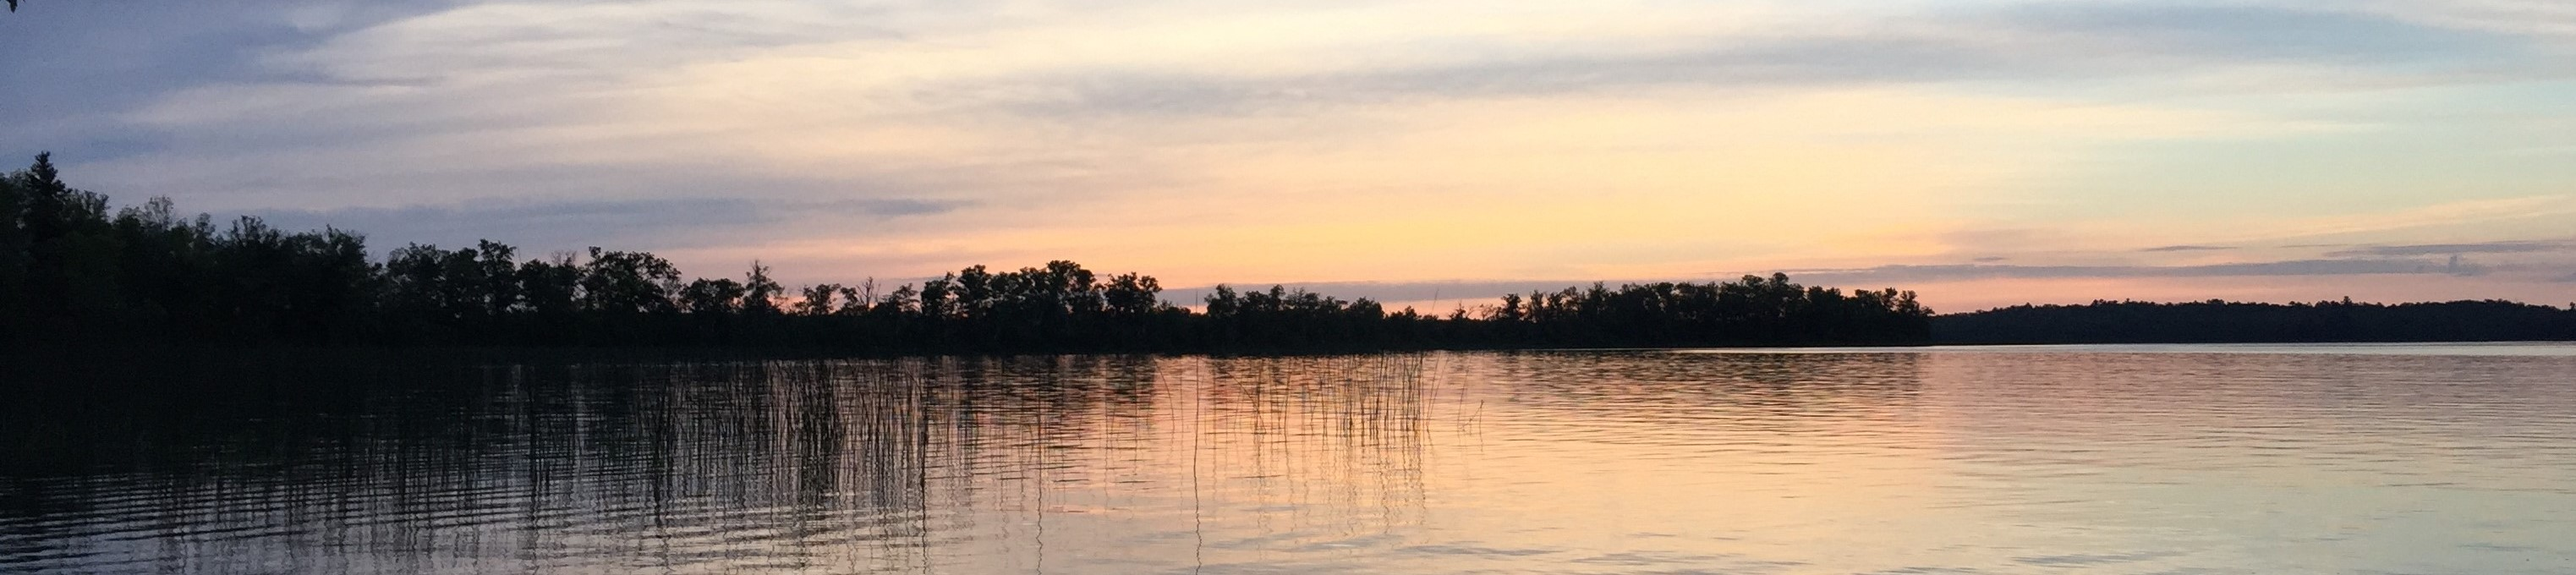
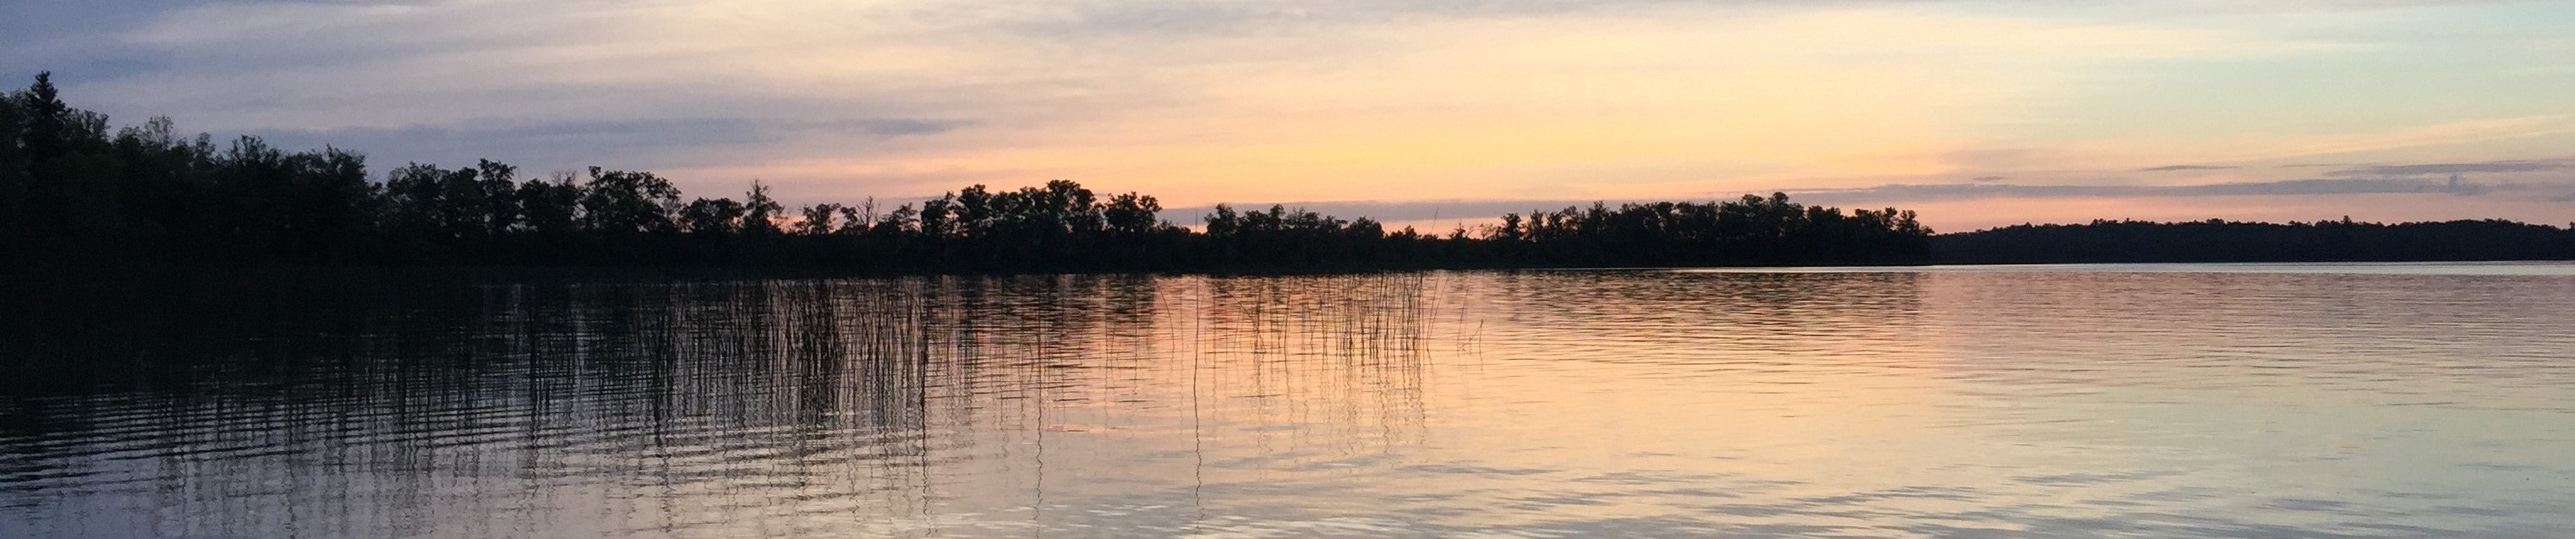
Add files via upload

diff --git a/index.html b/index.html
@@ -29,7 +29,7 @@
 
 <!-- Header -->
 <header class="w3-display-container w3-content w3-wide" style="max-width:1500px;" id="home">
-  <img class="w3-image" src="IMG_8169.JPG" alt="Header" width="1500" height="800">
+  <img class="w3-image" src="IMG_8169a.JPG" alt="Header" width="1500" height="800">
   <div class="w3-display-middle w3-margin-top w3-center">
     <h1 class="w3-xxlarge w3-text-white"><span class="w3-padding w3-black w3-opacity-min"><b>SR</b></span> <span class="w3-hide-small w3-text-light-grey">Sara K. Riedesel</span></h1>
   </div>
@@ -48,17 +48,27 @@
       <div class="w3-display-container">
 
         <img src="prof.JPG" alt="House" style="width:80%">
+          <br><br>
+          <img src="dance.jpg" alt="House" style="width:80%">
       </div>
     </div>
     <div class="w3-col l3 m6 w3-margin-bottom">
       <div class="w3-display-container" style="width:300%">
-          <br><br>
-        <p>Sara Riedesel is a junior Industrial & Systems Engineer at Binghamton University in New York.  She has passion for sustainability and is minoring in Sustainability Engineering.  She will graduate in May 2018 with a Bachelor's of Science.
-        <br>
-            
+          <br>
+        <p>Currently I am a junior majoring in Industrial & Systems Engineer at Binghamton University in New York.  I also have been taking classes to fufill a minor in Sustainability Engineering.  In May 2018, I will graduate with a Bachelor's of Science.  I was born in Billings, Montana and raised in Burnsville, MN. 
+         
             
         </p>
       </div>
+        
+     <div class="w3-display-container" style="width:300%">
+    <br>
+        <p>Outside of school, my hobbies include hiking (especially through the Finger Lakes State Parks), spending time with my family and dog, and swing dancing. Since 2010, I have been east coast swing dancing non-competitively. Junior and Senior year of highschool I was captian of my swing team. The following video shows one of my favorite dances I performed called "Get It".  </p>
+         <iframe width="100%" height="350" src="https://www.youtube.com/embed/6HhsN37Izrk" frameborder="0" allowfullscreen></iframe>
+         
+      </div>    
+        
+        
     </div>  
   </div>
     </div>   
@@ -71,19 +81,19 @@
   <div class="w3-row-padding">
     <div class="w3-col l3 m6 w3-margin-bottom">
       <img src="binghamton.jpg" alt="Binghamton" style="width:100%">
-      <p>Sara has been at Binghamton University since a freshman</p>
+      <p>In August 2014, I started attending Binghamton University in updstate New York.  This decision came from the desire to go out east and attend a sustainable school. In May 2018, I will graduate with a Bachehlor's of Science in Industrial & Systems Engineering. </p>
     </div>
     <div class="w3-col l3 m6 w3-margin-bottom">
-      <img src="iisecrop.png" alt="IISE" style="width:60%">
-      <p>Sara is a member of the Institute of Industrial & Systems Engineers</p>
+      <img src="iisecrop.png" alt="IISE" style="width:105%"><br><br>
+      <p>Recently I joined the Institute of Industrial & Systems Engineers. This Institute provides connections and project opportuinties in the field along with occasial plant tours. </p>
     </div>
     <div class="w3-col l3 m6 w3-margin-bottom">
-      <img src="swe.png" alt="SWE" style="width:70%">
-      <p>Sara has been a member of the Society of Women Engineers since her freshman year of college.  Currently she is heading a project for the group.  The team is building a sculpture made out of old engineering parts the University no longer uses.</p>
+      <img src="swe.png" alt="SWE" style="width:100%">
+      <p>I have been a member of the Society of Women Engineers since my freshman year of college.  Currently I am heading a project for the society. My team is building a sculpture made out of old engineering parts the University no longer uses. This project will be displayed in the freshman engineering design division.</p>
     </div>
     <div class="w3-col l3 m6 w3-margin-bottom">
-      <img src="lean.jpg" alt="Lean" style="width:50%;">
-      <p>January 2017, Sara got certified in Lean Six Sigma.  </p>
+      <img src="lean.jpg" alt="Lean" style="width:50%">
+      <p>January 2017, I became certified in Lean Six Sigma. The skilled learned included: Continuous Process Improvement, 5S, Value Stream Mapping, Failure Mode and Effect Analysis, Quality Function Deployment, DMAIC, Control Charts, Pareto Charts, Time and Motion Studies, Team Dynamics, and Leadership.</p>
     </div>
     
   </div>    
@@ -96,52 +106,52 @@
   <div class="w3-row-padding">
     <div class="w3-col l3 m6 w3-margin-bottom">
       <div class="w3-display-container">
-        <div class="w3-display-topleft w3-black w3-padding-50">Simio</div>
-        <img src="simio.png" alt="House" style="width:100%">
+        <div class="w3-display-topleft w3-padding w3-black w3-opacity-min">Simio</div><br><br>
+        <img src="simio.png" alt="simio" style="width:50%">
       </div>
     </div>
     <div class="w3-col l3 m6 w3-margin-bottom">
       <div class="w3-display-container">
-        <div class="w3-display-topleft w3-black w3-padding-30">AutoCAD</div>
-        <img src="autocad.png" alt="House" style="width:100%">
+        <div class="w3-display-topleft w3-padding w3-black w3-opacity-min">AutoCAD</div><br><br>
+        <img src="autocad.png" alt="autocad" style="width:30%">
       </div>
     </div>
     <div class="w3-col l3 m6 w3-margin-bottom">
       <div class="w3-display-container">
-        <div class="w3-display-topleft w3-black w3-padding-30">MATLAB</div><br><br>
-        <img src="matlab.png" alt="House" style="width:100%">
+       <div class="w3-display-topleft w3-padding w3-black w3-opacity-min">MATLAB</div><br><br>
+        <img src="matlab.png" alt="matlab" style="width:70%">
       </div>
     </div>
     <div class="w3-col l3 m6 w3-margin-bottom">
       <div class="w3-display-container">
-        <div class="w3-display-topleft w3-black w3-padding-30">Microsoft Office</div><br><br>
-        <img src="microsoftoffice.png" alt="House" style="width:100%">
+        <div class="w3-display-topleft w3-padding w3-black w3-opacity-min">Microsoft Office</div><br><br>
+        <img src="microsoftoffice.png" alt="microsoftoffice" style="width:50%">
       </div>
     </div>
   </div>
     <div class="w3-row-padding">
         <div class="w3-col l3 m6 w3-margin-bottom">
           <div class="w3-display-container">
-            <div class="w3-display-topleft w3-black w3-padding">Minitab</div>
-            <img src="minitab.png" alt="House" style="width:99%">
+            <div class="w3-display-topleft w3-padding w3-black w3-opacity-min">Minitab</div><br><br>
+            <img src="minitab.png" alt="minitab" style="width:50%">
           </div>
         </div>
         <div class="w3-col l3 m6 w3-margin-bottom">
           <div class="w3-display-container">
-            <div class="w3-display-topleft w3-black w3-padding">Labview</div>
-            <img src="labview.png" alt="House" style="width:99%">
+            <div class="w3-display-topleft w3-padding w3-black w3-opacity-min">Labview</div> <br><br>
+            <img src="labview.png" alt="House" style="width:50%">
           </div>
         </div>
         <div class="w3-col l3 m6 w3-margin-bottom">
           <div class="w3-display-container">
-            <div class="w3-display-topleft w3-black w3-padding">Arena</div><br><br>
-            <img src="arena.png" alt="House" style="width:99%">
+            <div class="w3-display-topleft w3-padding w3-black w3-opacity-min">Arena</div><br><br>
+            <img src="arena.png" alt="arena" style="width:80%">
           </div>
         </div>
         <div class="w3-col l3 m6 w3-margin-bottom">
           <div class="w3-display-container">
-            <div class="w3-display-topleft w3-black w3-padding">HTML, JavaScript, Python</div>
-            <img src="htmljavapython.png" alt="House" style="width:99%">
+            <div class="w3-display-topleft w3-padding w3-black w3-opacity-min">HTML, JavaScript, Python</div><br><br>
+            <img src="htmljavapython.png" alt="htmljavapython" style="width:50%">
           </div>
         </div>
       </div>
@@ -161,26 +171,26 @@
   <div class="w3-row-padding">
     <div class="w3-col l3 m6 w3-margin-bottom">
       <div class="w3-display-container">
-        <div class="w3-display-topleft w3-black w3-padding">Capstone</div>
-        <img src="hololens.jpg" alt="House" style="width:100%">
+        <div class="w3-display-topleft w3-black w3-padding">Capstone</div><br><br>
+        <img src="capstone.PNG" alt="capstone" style="width:100%">
       </div>
     </div>
     <div class="w3-col l3 m6 w3-margin-bottom">
       <div class="w3-display-container">
         <div class="w3-display-topleft w3-black w3-padding">Innovative Power Systems</div>
-        <img src="solar.png" alt="House" style="width:100%">
+        <img src="solar.png" alt="ips" style="width:100%">
       </div>
     </div>
     <div class="w3-col l3 m6 w3-margin-bottom">
       <div class="w3-display-container">
         <div class="w3-display-topleft w3-black w3-padding">Independent Study</div>
-        <img src="binghamton.jpg" alt="House" style="width:100%">
+        <img src="binghamton.jpg" alt="independentstudy" style="width:100%">
       </div>
     </div>
     <div class="w3-col l3 m6 w3-margin-bottom">
       <div class="w3-display-container">
         <div class="w3-display-topleft w3-black w3-padding">NASEC</div>
-        <img src="nasec.JPG" alt="House" style="width:100%">
+        <img src="nasec.JPG" alt="nasec" style="width:100%">
       </div>
     </div>
   </div>

diff --git a/projects.html b/projects.html
@@ -25,7 +25,7 @@
 
 <!-- Header -->
 <header class="w3-display-container w3-content w3-wide" style="max-width:1500px;" id="home">
-  <img class="w3-image" src="smallheader.jpg" alt="Header" width="1500" height="800">
+  <img class="w3-image" src="smallheadera.jpg" alt="Header" width="1500" height="800">
   <div class="w3-display-middle w3-margin-top w3-center">
     <h1 class="w3-xxlarge w3-text-white"><span class="w3-padding w3-black w3-opacity-min"><b>SR</b></span> <span class="w3-hide-small w3-text-light-grey">Projects</span></h1>
   </div>
@@ -44,9 +44,9 @@
   <div class="w3-row-padding">
     <div class="w3-col l3 m6 w3-margin-bottom">
       <div class="w3-display-container">
-        <div class="w3-display-topleft w3-black w3-padding">Capstone</div>
-        <img src="hololens.jpg" alt="House" style="width:100%">
-        <p>Sara began her senior design capstone project Spring 2017.  Her team of 6 individuals is currently developing a smart watch app for nursing homes.  The smartwatch would be worn by the staff and the residents of the nursing home.  Currently the team is in the beginning stages of setting requirements and specifications based on the client.</p>  
+        <div class="w3-display-topleft w3-black w3-padding">Capstone</div><br><br>
+        <img src="capstone.PNG" alt="House" style="width:100%">
+        <p>I began my senior design capstone project began Spring 2017. Our team of 6 individuals is currently developing a smart watch app for nursing homes worn by the staff and residents.  Currently the team is in the beginning stages of setting requirements and specifications based on the client. The overall goal of the project is to create a notification and communication system for staff and residents.</p>  
           
       </div>
     </div>
@@ -54,7 +54,7 @@
       <div class="w3-display-container">
         <div class="w3-display-topleft w3-black w3-padding">Innovative Power Systems</div>
         <img src="solar.png" alt="House" style="width:100%">
-        <p>Summer 2015, Sara worked at Innovative Power Systems in St. Paul, Minnesota.  As an intern, her role was Communications Manager. She performed research and created a database for subjects concerning renewable energy.</p>
+        <p>Summer 2015, I worked at Innovative Power Systems in St. Paul, Minnesota.  As an intern, my role was Communications Manager. Throughout the summer I performed research and created a database for subjects concerning renewable energy.</p>
           
       </div>
     </div>
@@ -62,7 +62,7 @@
       <div class="w3-display-container">
         <div class="w3-display-topleft w3-black w3-padding">Independent Study</div>
         <img src="binghamton.jpg" alt="House" style="width:100%">
-        <p>Sophomore year of college, Sara began an independent study for her Sustainabiliity Engineering Minor. Her research included working with Dr. Michael Elmore of Binghamton University on the State Universities of New York and their involvement with renewable energy, green power, and ecological/sustainable based research.
+        <p>Sophomore year of college, I began an independent study for the Sustainabiliity Engineering Minor. My research included working with Dr. Michael Elmore of Binghamton University on the State Universities of New York and their involvement with renewable energy, green power, and ecological/sustainable based research.
         <br>
         The final project consisted of a report, website, and a poster presentation at the University's Undergraduate Reseach Day. 
         </p>  
@@ -74,9 +74,9 @@
         <div class="w3-display-topleft w3-black w3-padding">NASEC</div>
         <img src="nasec.JPG" alt="House" style="width:100%">
         
-        <p>November 2016, Sara traveled to Annapolis, Maryland and attended the Naval Academy Science and Engineering Conference. The student who attended the conference were chosen by their Universities.  The theme of Sustainability was prominent throughout the conference.
+        <p>November 2016, I traveled to Annapolis, Maryland to attend the 2016 Naval Academy Science and Engineering Conference (NASEC). The student who attended the conference were chosen by their Universities after completing an application. Students from across the United States gathered to listen to speakers on Energy & Alternative Fuels, Cyber Physical Systems, and Water & Sustainability.
         <br>
-        Sara worked on a team concentrating on the energy and alternative fuels and more specifically transportation.  The final presentation can be found below.
+        The team I worked on concentrated on energy and alternative fuels and more specifically transportation.  The final presentation can be found below.
         </p>
         <a href="nasec.pdf" target="_blank">NASEC Presentation</a>  
           

diff --git a/resume.html b/resume.html
@@ -28,7 +28,7 @@
 
 <!-- Header -->
 <header class="w3-display-container w3-content w3-wide" style="max-width:1500px;" id="home">
-  <img class="w3-image" src="smallheader.jpg" alt="Header" width="auto" height="100">
+  <img class="w3-image" src="smallheadera.jpg" alt="Header" width="auto" height="100">
   <div class="w3-display-middle w3-margin-top w3-center">
     <h1 class="w3-xxlarge w3-text-white"><span class="w3-padding w3-black w3-opacity-min"><b>SR</b></span> <span class="w3-hide-small w3-text-light-grey">Resume</span></h1>
   </div>

diff --git a/contact.html b/contact.html
@@ -29,7 +29,7 @@
 
 <!-- Header -->
 <header class="w3-display-container w3-content w3-wide" style="max-width:1500px;" id="home">
-  <img class="w3-image" src="smallheader.jpg" alt="Header" width="100%" height="60">
+  <img class="w3-image" src="smallheadera.jpg" alt="Header" width="100%" height="60">
   <div class="w3-display-middle w3-margin-top w3-center">
     <h1 class="w3-xxlarge w3-text-white"><span class="w3-padding w3-black w3-opacity-min"><b>SR</b></span> <span class="w3-hide-small w3-text-light-grey">Contact</span></h1>
   </div>
